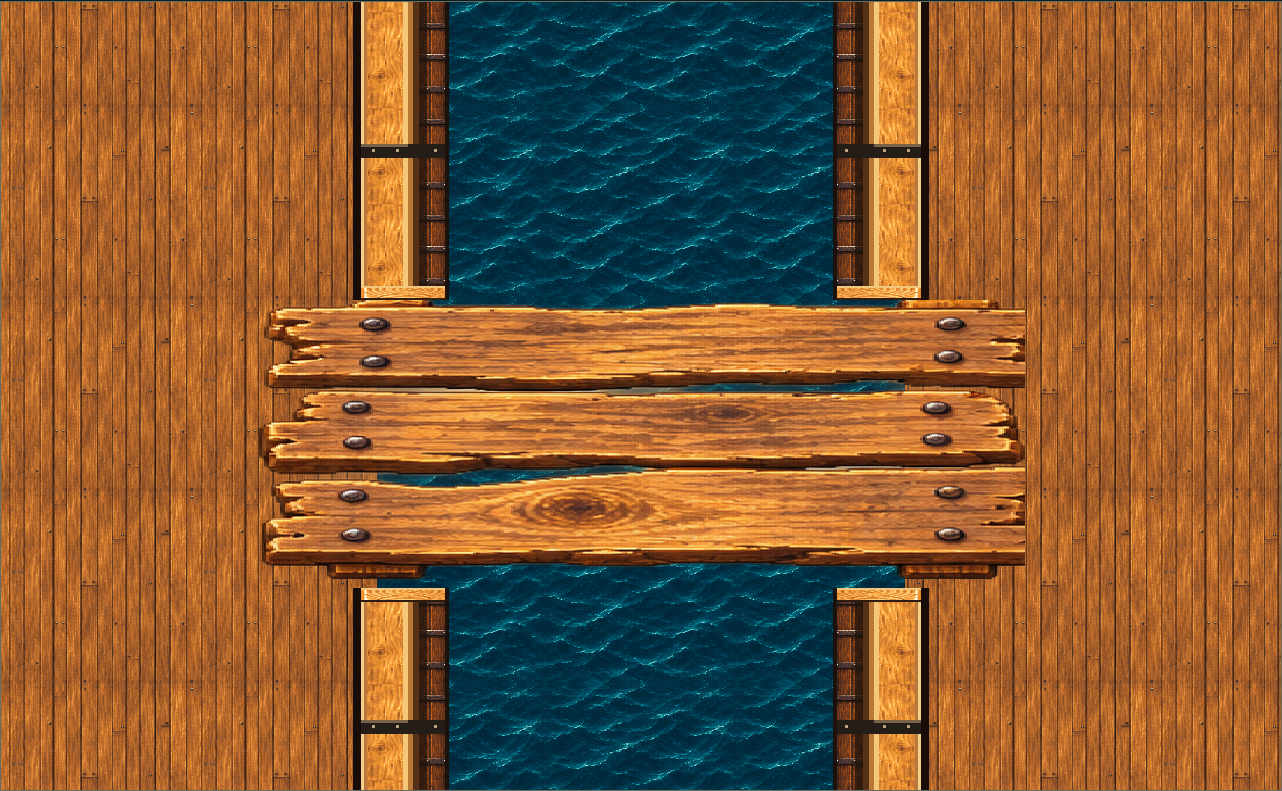
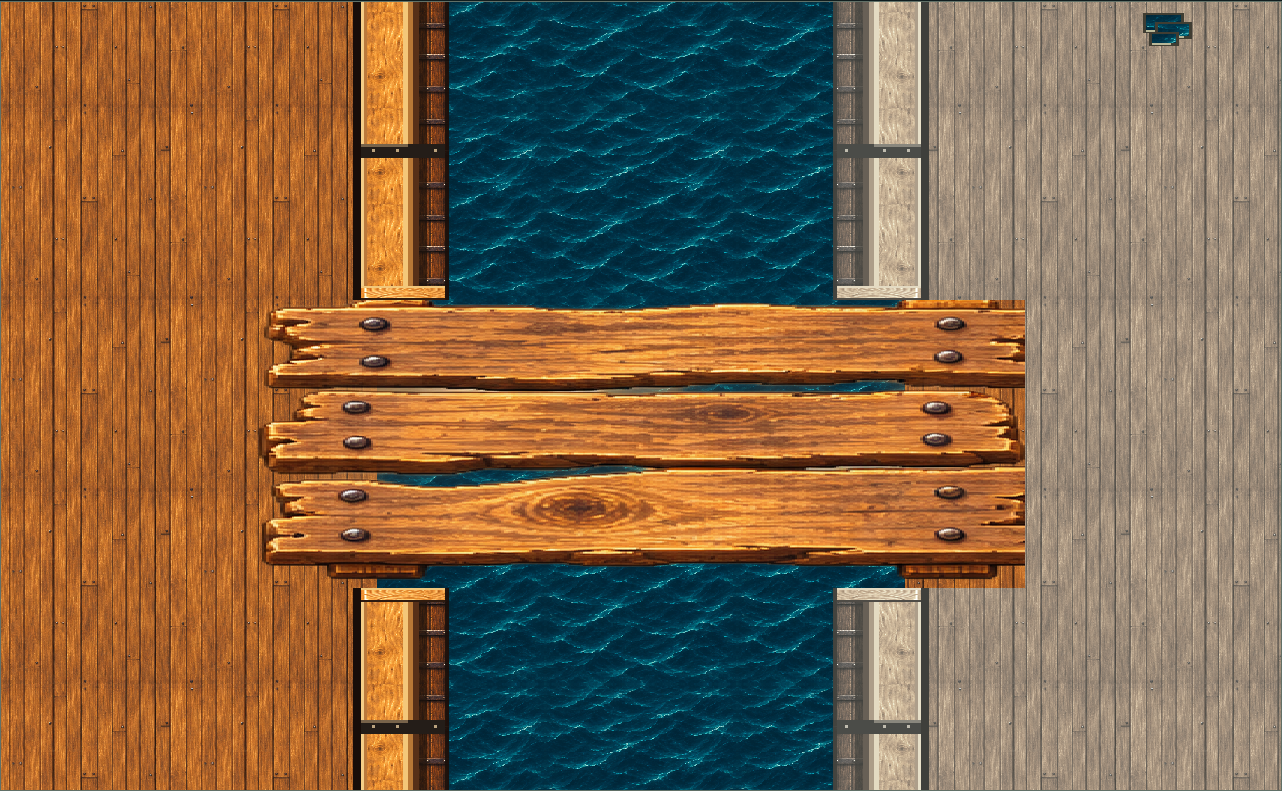
Corriger les raccords du château et vieillir le navire droit

Changed region(s): [[0.624, 0.0, 1.0, 1.0]]

diff --git a/public/validation/cartes/index.html b/public/validation/cartes/index.html
@@ -1,6 +1,18 @@
 <!doctype html><html lang="fr"><meta charset="utf-8"><meta name="viewport" content="width=device-width,initial-scale=1"><title>Corrections des cartes — Les Terres Égarées</title><style>
 :root{color-scheme:dark}*{box-sizing:border-box}body{margin:0;background:#10211e;color:#e9dfc2;font:16px/1.65 system-ui,sans-serif}main{max-width:1300px;margin:auto;padding:28px}h1,h2{font-family:Georgia,serif;font-weight:400;line-height:1.25}h1{font-size:36px}h2{font-size:23px}a{color:#e2c47f}header{padding-bottom:25px;border-bottom:1px solid #756c4b}.button{display:inline-block;padding:10px 22px;background:#344334;border:1px solid #a28e5c;text-decoration:none;color:#eadbb5}figure{margin:28px 0 44px;border:1px solid #536257;background:#172c25}img{display:block;width:100%;height:auto}figcaption{padding:14px 22px}figcaption h2{margin:0}figcaption p{color:#bdc5b3}.note{color:#bdc5b3;font-size:14px}footer{border-top:1px solid #756c4b;padding:20px 0}
-</style><main><header><h1>Corrections ciblées des cartes</h1><p>Les Terres Égarées — Château et abordage</p><p class="note">Captures prises dans l’atelier du jeu. Les plans JSON, les dimensions et les empreintes de collision sont conservés.</p><a class="button" href="../../">Ouvrir le jeu</a><p class="note">Dans le jeu : Tests de combat → Explorer les deux cartes. Un homme d’armes du jeu se déplace au clic ou avec les flèches, sans ennemis. Le zoom, la grille et les commandes de portes restent disponibles.</p></header><figure><a href="correction-castle-junctions-openings.png"><img src="correction-castle-junctions-openings.png" alt="Château — jonctions et ouvertures" loading="lazy"></a><figcaption><h2>Château — jonctions et ouvertures</h2><p>Façade complète au-dessus des passages latéraux ouverts ou sans porte.</p><a href="correction-castle-junctions-openings.png">Ouvrir la capture en taille réelle</a></figcaption></figure>
+</style><main><header><h1>Corrections ciblées des cartes</h1><p>Les Terres Égarées — Château et abordage</p><p class="note">Captures prises dans l’atelier du jeu. Les plans JSON, les dimensions et les empreintes de collision sont conservés.</p><a class="button" href="../../?v=20261114-c1">Ouvrir le jeu</a><p class="note">Dans le jeu : Tests de combat → Explorer les deux cartes. Un homme d’armes du jeu se déplace au clic ou avec les flèches, sans ennemis. Le zoom, la grille et les commandes de portes restent disponibles.</p><p class="note">Révision du 14 novembre 2026 — propositions graphiques en attente de retour.</p></header><figure><a href="revision-closed-front-door.png?v=20261114-c1"><img src="revision-closed-front-door.png?v=20261114-c1" alt="Château fermé — porte de face" loading="lazy"></a><figcaption><h2>Château fermé — porte de face</h2><p>Panneau abaissé, linteau et encadrement en pierre ; angles sud du hall.</p><a href="revision-closed-front-door.png?v=20261114-c1">Capture en taille réelle</a></figcaption></figure>
+<figure><a href="revision-closed-left-corners.png?v=20261114-c1"><img src="revision-closed-left-corners.png?v=20261114-c1" alt="Château fermé — angle extérieur gauche" loading="lazy"></a><figcaption><h2>Château fermé — angle extérieur gauche</h2><p>Le raccord (4, 24) utilise le dessus de pierre.</p><a href="revision-closed-left-corners.png?v=20261114-c1">Capture en taille réelle</a></figcaption></figure>
+<figure><a href="revision-closed-right-corner.png?v=20261114-c1"><img src="revision-closed-right-corner.png?v=20261114-c1" alt="Château fermé — angle extérieur droit" loading="lazy"></a><figcaption><h2>Château fermé — angle extérieur droit</h2><p>Le raccord (38, 14) reste en pierre devant les salles couvertes.</p><a href="revision-closed-right-corner.png?v=20261114-c1">Capture en taille réelle</a></figcaption></figure>
+<figure><a href="revision-corridor-corners.png?v=20261114-c1"><img src="revision-corridor-corners.png?v=20261114-c1" alt="Couloirs ouverts — raccords nord" loading="lazy"></a><figcaption><h2>Couloirs ouverts — raccords nord</h2><p>Raccords (9, 4) et (20, 4), cloisons visibles et pièces encore couvertes.</p><a href="revision-corridor-corners.png?v=20261114-c1">Capture en taille réelle</a></figcaption></figure>
+<figure><a href="revision-hall-corners.png?v=20261114-c1"><img src="revision-hall-corners.png?v=20261114-c1" alt="Hall ouvert — raccords sud" loading="lazy"></a><figcaption><h2>Hall ouvert — raccords sud</h2><p>Les angles du hall gardent leur dessus de pierre.</p><a href="revision-hall-corners.png?v=20261114-c1">Capture en taille réelle</a></figcaption></figure>
+<figure><a href="revision-side-door-left.png?v=20261114-c1"><img src="revision-side-door-left.png?v=20261114-c1" alt="Porte latérale — salle cachée à gauche" loading="lazy"></a><figcaption><h2>Porte latérale — salle cachée à gauche</h2><p>Demi-couronnement à gauche, sol visible à droite et petite poignée.</p><a href="revision-side-door-left.png?v=20261114-c1">Capture en taille réelle</a></figcaption></figure>
+<figure><a href="revision-side-door-right.png?v=20261114-c1"><img src="revision-side-door-right.png?v=20261114-c1" alt="Porte latérale — salle cachée à droite" loading="lazy"></a><figcaption><h2>Porte latérale — salle cachée à droite</h2><p>Demi-couronnement à droite et passage visible à gauche.</p><a href="revision-side-door-right.png?v=20261114-c1">Capture en taille réelle</a></figcaption></figure>
+<figure><a href="revision-canteen-open.png?v=20261114-c1"><img src="revision-canteen-open.png?v=20261114-c1" alt="Cantine ouverte — étape intermédiaire" loading="lazy"></a><figcaption><h2>Cantine ouverte — étape intermédiaire</h2><p>La poignée disparaît après destruction ; la salle du trône reste couverte.</p><a href="revision-canteen-open.png?v=20261114-c1">Capture en taille réelle</a></figcaption></figure>
+<figure><a href="revision-armory-open.png?v=20261114-c1"><img src="revision-armory-open.png?v=20261114-c1" alt="Armurerie ouverte — étape intermédiaire" loading="lazy"></a><figcaption><h2>Armurerie ouverte — étape intermédiaire</h2><p>Passage dégagé et cloisons conservées.</p><a href="revision-armory-open.png?v=20261114-c1">Capture en taille réelle</a></figcaption></figure>
+<figure><a href="revision-reserve-open.png?v=20261114-c1"><img src="revision-reserve-open.png?v=20261114-c1" alt="Réserve ouverte — étape intermédiaire" loading="lazy"></a><figcaption><h2>Réserve ouverte — étape intermédiaire</h2><p>Raccords et terminaisons murales après ouverture.</p><a href="revision-reserve-open.png?v=20261114-c1">Capture en taille réelle</a></figcaption></figure>
+<figure><a href="revision-ships-comparison.png?v=20261114-c1"><img src="revision-ships-comparison.png?v=20261114-c1" alt="Abordage — comparaison des navires" loading="lazy"></a><figcaption><h2>Abordage — comparaison des navires</h2><p>Bois pâle et délavé sur le navire droit ; navire gauche, mer et passerelles conservés.</p><a href="revision-ships-comparison.png?v=20261114-c1">Capture en taille réelle</a></figcaption></figure>
+<figure><a href="revision-ghost-deck-gaps.png?v=20261114-c1"><img src="revision-ghost-deck-gaps.png?v=20261114-c1" alt="Navire droit — petites brèches décoratives" loading="lazy"></a><figcaption><h2>Navire droit — petites brèches décoratives</h2><p>Petites ouvertures entre les planches, sans changement de navigation.</p><a href="revision-ghost-deck-gaps.png?v=20261114-c1">Capture en taille réelle</a></figcaption></figure>
+<figure><a href="correction-castle-junctions-openings.png"><img src="correction-castle-junctions-openings.png" alt="Château — jonctions et ouvertures" loading="lazy"></a><figcaption><h2>Château — jonctions et ouvertures</h2><p>Façade complète au-dessus des passages latéraux ouverts ou sans porte.</p><a href="correction-castle-junctions-openings.png">Ouvrir la capture en taille réelle</a></figcaption></figure>
 <figure><a href="correction-castle-entrance.png"><img src="correction-castle-entrance.png" alt="Château — entrée principale" loading="lazy"></a><figcaption><h2>Château — entrée principale</h2><p>Marches composées à la même échelle que les murs, sur les cases d’escalier du plan.</p><a href="correction-castle-entrance.png">Ouvrir la capture en taille réelle</a></figcaption></figure>
 <figure><a href="correction-castle-throne-rug.png"><img src="correction-castle-throne-rug.png" alt="Château — tapis du trône" loading="lazy"></a><figcaption><h2>Château — tapis du trône</h2><p>Trône tourné vers la gauche et tapis horizontal, sans modification du JSON.</p><a href="correction-castle-throne-rug.png">Ouvrir la capture en taille réelle</a></figcaption></figure>
 <figure><a href="correction-ship-rails-gangway.png"><img src="correction-ship-rails-gangway.png" alt="Navires — bastingages et passerelle" loading="lazy"></a><figcaption><h2>Navires — bastingages et passerelle</h2><p>Bastingages en relief : dessus continu, corniche biseautée, face verticale ombrée et extrémités fermées. Largeur et passages conservés.</p><a href="correction-ship-rails-gangway.png">Ouvrir la capture en taille réelle</a></figcaption></figure>
@@ -10,4 +22,4 @@
 <figure><a href="correction-ship-storage-grid.png"><img src="correction-ship-storage-grid.png" alt="Navires — stockage sur la grille" loading="lazy"></a><figcaption><h2>Navires — stockage sur la grille</h2><p>Grandes caisses uniques de 2 × 2 cases sur leur empreinte exacte ; aucun passage supplémentaire bloqué.</p><a href="correction-ship-storage-grid.png">Ouvrir la capture en taille réelle</a></figcaption></figure><figure><a href="correction-castle-roof-side-door.png"><img src="correction-castle-roof-side-door.png" alt="Château — porte de profil et pièces fermées" loading="lazy"></a><figcaption><h2>Château — porte de profil et pièces fermées</h2><p>Murs visibles depuis le couloir ouvert, porte de profil, toit conservé sur le sol des pièces fermées.</p><a href="correction-castle-roof-side-door.png">Ouvrir la capture en taille réelle</a></figcaption></figure>
 <figure><a href="correction-castle-roof-reserve.png"><img src="correction-castle-roof-reserve.png" alt="Château — toiture autour de la réserve" loading="lazy"></a><figcaption><h2>Château — toiture autour de la réserve</h2><p>Les murs du couloir restent visibles ; les pièces fermées et les coins sans face exposée restent couverts.</p><a href="correction-castle-roof-reserve.png">Ouvrir la capture en taille réelle</a></figcaption></figure>
 <figure><a href="correction-exploration-character.png"><img src="correction-exploration-character.png" alt="Exploration — personnage du jeu" loading="lazy"></a><figcaption><h2>Exploration — personnage du jeu</h2><p>Homme d’armes du jeu sur le pont, contrôlable au clic ou avec les flèches, sans ennemis.</p><a href="correction-exploration-character.png">Ouvrir la capture en taille réelle</a></figcaption></figure>
-<footer><a href="../../">Retour au jeu</a></footer></main></html>
+<footer><a href="../../?v=20261114-c1">Retour au jeu</a></footer></main></html>

diff --git a/src/rendering/plan-renderer.ts b/src/rendering/plan-renderer.ts
@@ -1,5 +1,7 @@
 import {
   wallJunction,
+  exposedCornerCap,
+  sideDoorHiddenSide,
   planDoorAxis,
   carpetVisualBounds,
   storageSprites,
@@ -91,25 +93,68 @@ function doorSprite(
   c: CanvasRenderingContext2D,
   images: PlanArtwork,
   o: PlanObject,
-  map: PlanMap,
+  state: PlanState,
 ) {
   const x = o.x * P,
     y = o.y * P,
     w = o.w * P,
     h = o.h * P;
-  if (planDoorAxis(map, o) === "vertical") {
-    c.drawImage(
-      images.directional,
-      1265,
-      94,
-      195,
-      730,
-      x + w * 0.12,
-      y,
-      w * 0.76,
-      h,
-    );
-  } else c.drawImage(images.castleDetails, 450, 600, 114, 154, x, y, w, h);
+  if (planDoorAxis(state.map, o) === "vertical") {
+    // Floor remains visible next to the half coping, even over the closed roof layer.
+    for (let dy = 0; dy < o.h; dy++) {
+      c.drawImage(
+        images.castle,
+        ...((o.x + o.y + dy) % 3 ? CASTLE.floor : CASTLE.floor2),
+        x,
+        y + dy * P,
+        w,
+        P,
+      );
+      c.fillStyle = "#285d942a";
+      c.fillRect(x, y + dy * P, w, P);
+    }
+    const right = sideDoorHiddenSide(state, o) === "right";
+    const edge = x + (right ? w * 0.52 : 0),
+      width = w * 0.48;
+    c.drawImage(images.corrections, 321, 630, 151, 620, edge, y, width, h);
+    c.fillStyle = "#594a35";
+    c.fillRect(right ? edge : edge + width - 3, y, 3, h);
+    // A recessed latch at the floor-facing edge is the only visible door hardware.
+    const latch = right ? edge - 4 : edge + width - 2;
+    c.fillStyle = "#3a3025";
+    c.fillRect(latch, y + h * 0.48, 6, 13);
+    c.fillStyle = "#bd9c61";
+    c.fillRect(latch + 1, y + h * 0.48 + 3, 4, 5);
+  } else {
+    // Lower the panel inside its original footprint and close the frame with stone.
+    c.drawImage(images.castleDetails, 450, 600, 114, 154, x, y + 23, w, h - 23);
+    c.drawImage(images.castle, ...CASTLE.coping, x, y, w, 23);
+    c.fillStyle = "#655039";
+    c.fillRect(x, y + 23, w, 3);
+    for (const edge of [x, x + w - 7])
+      c.drawImage(images.castle, ...CASTLE.coping, edge, y + 23, 7, h - 23);
+  }
+}
+/** Sparse splintered seams, away from gangways and the main circulation lanes. */
+function ghostDeckGaps(
+  c: CanvasRenderingContext2D,
+  x: number,
+  y: number,
+  water: CanvasPattern,
+) {
+  const chips = [
+    [25, 3, 35, 15],
+    [37, 12, 31, 12],
+    [31, 22, 24, 9],
+  ];
+  for (const [dx, dy, w, h] of chips) {
+    c.fillStyle = "#403d32";
+    c.fillRect(x + dx - 3, y + dy - 2, w + 6, h + 5);
+    c.fillStyle = water;
+    c.fillRect(x + dx, y + dy, w, h);
+    c.fillStyle = "#b9b898";
+    c.fillRect(x + dx, y + dy + h, w - 5, 2);
+  }
 }
 /** A raised wooden wall: continuous upper beam, shaded upright face and end grain.
  * All projection remains inside the existing blocked tile, never over a gangway. */
@@ -226,7 +271,9 @@ export function renderPlanBase(s: PlanState, images?: PlanArtwork) {
         );
         c.fillStyle = "#285d942a";
         c.fillRect(xx, yy, P, P);
-        if (t === "wall") {
+        if (t === "wall" && exposedCornerCap(s, x, y)) {
+          stamp(images.corrections, [321, 630, 302, 620], xx, yy);
+        } else if (t === "wall") {
           const joint = wallJunction(map, x, y, s.opened);
           if (joint.axis === "vertical") {
             wallV(xx, yy);
@@ -260,6 +307,48 @@ export function renderPlanBase(s: PlanState, images?: PlanArtwork) {
           }
         }
       }
+      // Apply the aging only to wooden surfaces of the right hull. Water and
+      // gangway apertures are excluded; their pixels and all collisions stay intact.
+      const ghost = decks.find((o) => o.type === "deck2");
+      const gangwayLanding = map.objects.some(
+        (o) =>
+          o.type === "gangway" &&
+          x >= o.x - 2 &&
+          x < o.x + o.w + 2 &&
+          y >= o.y &&
+          y < o.y + o.h,
+      );
+      if (
+        map.id === "boarding" &&
+        ghost &&
+        !gangwayLanding &&
+        x >= ghost.x &&
+        x < ghost.x + ghost.w &&
+        (t === "rail" ||
+          (t === "deck" && x > ghost.x && x < ghost.x + ghost.w - 1))
+      ) {
+        const woodPixels = c.getImageData(xx, yy, P, P);
+        for (let i = 0; i < woodPixels.data.length; i += 4) {
+          const r = woodPixels.data[i],
+            g = woodPixels.data[i + 1],
+            b = woodPixels.data[i + 2];
+          const l = r * 0.299 + g * 0.587 + b * 0.114;
+          woodPixels.data[i] = r * 0.28 + l * 0.55 + 48;
+          woodPixels.data[i + 1] = g * 0.28 + l * 0.55 + 51;
+          woodPixels.data[i + 2] = b * 0.28 + l * 0.55 + 48;
+        }
+        c.putImageData(woodPixels, xx, yy);
+        if (
+          t === "deck" &&
+          [
+            [26, 3],
+            [37, 11],
+            [25, 26],
+            [37, 30],
+          ].some(([gx, gy]) => gx === x && gy === y)
+        )
+          ghostDeckGaps(c, xx, yy, water);
+      }
       c.restore();
     }
   // Decoration follows authored rectangles, never the layout in the reference illustrations.
@@ -276,7 +365,7 @@ export function renderPlanBase(s: PlanState, images?: PlanArtwork) {
       stamp(images.chest, [328, 178, 875, 657], x + 8, y + 15, w - 16, h - 30);
     if (o.type === "throne")
       stamp(images.directional, [305, 24, 420, 800], x, y, w, h);
-    if (o.type === "door" && !s.opened.has(o.id)) doorSprite(c, images, o, map);
+    if (o.type === "door" && !s.opened.has(o.id)) doorSprite(c, images, o, s);
     if (o.type === "stairs") paintEntranceSteps(c, images, o);
     if (o.type === "reinforcement")
       stamp(images.castle, [949, 950, 298, 294], x, y, w, h);
@@ -506,7 +595,9 @@ export function renderPlanRoof(s: PlanState, images?: PlanArtwork) {
         }
       }
       // The exterior stone faces remain visible beneath the roofs; interior cells stay opaque.
-      if (map.tiles[k] === "wall") {
+      if (map.tiles[k] === "wall" && exposedCornerCap(s, gx, gy)) {
+        stamp(images.corrections, [321, 630, 302, 620], x, y);
+      } else if (map.tiles[k] === "wall") {
         if (!building(gx - 1, gy) || !building(gx + 1, gy)) wallV(x, y);
         if (!building(gx, gy - 1))
           stamp(images.castle, CASTLE.coping, x, y, P, 18);
@@ -515,7 +606,7 @@ export function renderPlanRoof(s: PlanState, images?: PlanArtwork) {
     }
   // A closed accessible gate is visible on its facade; opened gates leave no sprite.
   for (const door of s.map.doors)
-    if (doorAvailable(s, door)) doorSprite(c, images, door, s.map);
+    if (doorAvailable(s, door)) doorSprite(c, images, door, s);
   return a;
 }
 export function compositePlan(s: PlanState, images?: PlanArtwork) {

diff --git a/src/rendering/plan-geometry.ts b/src/rendering/plan-geometry.ts
@@ -1,4 +1,9 @@
-import type { PlanMap, PlanObject } from "../data/plan-maps";
+import {
+  roofVisible,
+  type PlanMap,
+  type PlanObject,
+  type PlanState,
+} from "../data/plan-maps";
 export type WallAxis = "horizontal" | "vertical";
 export function planDoorAxis(map: PlanMap, o: PlanObject): WallAxis {
   if (o.w !== o.h) return o.w > o.h ? "horizontal" : "vertical";
@@ -80,4 +85,50 @@ export function carpetVisualBounds(map: PlanMap, carpet: PlanObject) {
 /** Decorate only pre-existing blocked storage footprints, never an additional route cell. */
 export function storageSprites(o: PlanObject): PlanObject[] {
   return [o];
+}
+
+/** Zero-based cells matched to the green marks against the authored 42 × 34 raster.
+ * Only the exposed corner gets a flat stone top; neighboring closed floors keep their roof.
+ */
+export const castleCornerCaps = [
+  [20, 0],
+  [9, 4],
+  [20, 4],
+  [27, 14],
+  [38, 14],
+  [4, 24],
+  [9, 24],
+  [14, 26],
+  [27, 26],
+] as const;
+export function exposedCornerCap(s: PlanState, x: number, y: number) {
+  if (
+    s.map.id !== "castle" ||
+    !castleCornerCaps.some(([cx, cy]) => cx === x && cy === y)
+  )
+    return false;
+  return [-1, 1].some((dx) =>
+    [-1, 1].some((dy) => {
+      const xx = x + dx,
+        yy = y + dy;
+      if (xx < 0 || yy < 0 || xx >= s.map.width || yy >= s.map.height)
+        return true;
+      const k = yy * s.map.width + xx;
+      return !s.map.building.has(k) || s.revealed.has(k);
+    }),
+  );
+}
+/** The stone half belongs to the hidden room, never a rotated front door. */
+export function sideDoorHiddenSide(
+  s: PlanState,
+  o: PlanObject,
+): "left" | "right" {
+  const hidden = (x: number) =>
+    Array.from({ length: o.h }, (_, dy) =>
+      roofVisible(s, (o.y + dy) * s.map.width + x),
+    ).some(Boolean);
+  if (hidden(o.x - 1)) return "left";
+  if (hidden(o.x + o.w)) return "right";
+  // Once both rooms are exposed retain the authored room-facing frame.
+  return o.id === 16 ? "right" : "left";
 }

diff --git a/tests/plan-graphics.test.ts b/tests/plan-graphics.test.ts
@@ -125,3 +125,51 @@ test("vertical walls above permanent doorless gaps use the same full end face as
   assert.equal(end.axis, "vertical");
   assert.equal(end.openS, true);
 });
+
+test("marked corner tops follow progressive exposure without uncovering closed rooms", async () => {
+  const { castleCornerCaps, exposedCornerCap, sideDoorHiddenSide } =
+    await import("../src/rendering/plan-geometry");
+  const { createPlanState, openPlanDoor, roofVisible } =
+    await import("../src/data/plan-maps");
+  const s = createPlanState(castlePlan);
+  for (const [x, y] of castleCornerCaps)
+    assert.equal(
+      castlePlan.tiles[y * 42 + x],
+      "wall",
+      `reference mark ${x},${y}`,
+    );
+  for (const [x, y] of [
+    [20, 0],
+    [38, 14],
+    [4, 24],
+    [14, 26],
+    [27, 26],
+  ])
+    assert.ok(exposedCornerCap(s, x, y), `exterior ${x},${y}`);
+  assert.equal(exposedCornerCap(s, 9, 4), false);
+  openPlanDoor(s, 13, "key");
+  for (const [x, y] of castleCornerCaps) assert.ok(exposedCornerCap(s, x, y));
+  for (const id of [14, 10003])
+    assert.equal(
+      sideDoorHiddenSide(
+        s,
+        castlePlan.doors.find((d) => d.id === id)!,
+      ),
+      "left",
+    );
+  assert.equal(
+    sideDoorHiddenSide(
+      s,
+      castlePlan.doors.find((d) => d.id === 16)!,
+    ),
+    "right",
+  );
+  for (const [x, y] of [
+    [3, 21],
+    [7, 28],
+    [31, 17],
+    [4, 12],
+    [30, 8],
+  ])
+    assert.ok(roofVisible(s, y * 42 + x), `closed room ${x},${y}`);
+});

diff --git a/docs/GRAPHICS-CORRECTIONS.md b/docs/GRAPHICS-CORRECTIONS.md
@@ -49,3 +49,35 @@ Site : https://dougdouggy.github.io/Les-Terres-Egarees/
 
 Accès interactif : **Tests de combat → Explorer les deux cartes**.
 Captures : `/Les-Terres-Egarees/validation/cartes/`.
+
+## Révision du 14 novembre 2026 — en attente de retour graphique
+
+Les repères des trois captures ont été reportés sur le raster d’origine, avec
+coordonnées à partir de zéro : `(20,0)`, `(9,4)`, `(20,4)`, `(27,14)`,
+`(38,14)`, `(4,24)`, `(9,24)`, `(14,26)`, `(27,26)`. Le dessus de pierre
+vient du même matériau que les murs latéraux, sans façade verticale ajoutée.
+Les raccords intérieurs apparaissent lorsque leur diagonale est découverte ;
+les sols des pièces voisines restent couverts. La logique de révélation et la
+correction des cloisons de `4c5e2a7` sont conservées.
+
+Les portes de face ont un panneau abaissé dans leur empreinte, un linteau et
+deux montants. Les portes latérales ne réutilisent plus un panneau frontal :
+un demi-couronnement occupe le côté de la salle cachée, avec sol sur l’autre
+moitié et une poignée discrète. L’ouverture/destruction retire la poignée ;
+les terminaisons existantes des murs ferment les extrémités du passage.
+
+Seuls le plancher et les bastingages du navire droit sont délavés : transformation
+des couleurs des textures existantes, sans nouvelle image générée. Quatre petites
+brèches décoratives sont à `(26,3)`, `(37,11)`, `(25,26)`, `(37,30)`, hors des
+passerelles. Les mâts, caisses, cales, formes, collisions et chemins restent
+conservés. Le navire gauche, la mer et les passerelles restent identiques au pixel.
+
+Validation : 148 tests de logique ; compilations standard et prototype ; contrôles
+public/prototype ; audit Chromium avec le personnage sur les deux cartes et
+captures de plusieurs étapes intermédiaires. L’audit compare les neuf raccords
+au matériau attendu à chaque ouverture et vérifie les pixels préservés sur
+le navire gauche, la mer et les passerelles. Le JSON original est inchangé.
+
+Captures réelles : `public/validation/cartes/revision-*.png`, accessibles depuis
+la page `validation/cartes/?v=20261114-c1`. Leur présence ne constitue pas une
+validation graphique par l’utilisateur.
